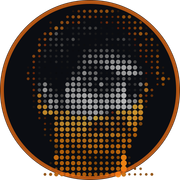
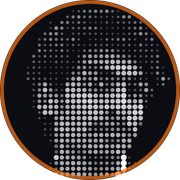
feat(hero): pure white dots only, dedicated studio portrait asset (viven-hero-studio.png), CORS headers, and cache-busting for Vercel

Changed region(s): [[0.1389, 0.0556, 0.9444, 1.0]]

diff --git a/src/components/ui/DotMatrixPortrait.tsx b/src/components/ui/DotMatrixPortrait.tsx
@@ -215,7 +215,10 @@ export function DotMatrixPortrait({
     ctx.scale(dpr, dpr);
 
     const img = new Image();
-    img.crossOrigin = "anonymous";
+    // Only set crossOrigin on remote URLs to prevent browser security blocks on local static files
+    if (src.startsWith("http://") || src.startsWith("https://")) {
+      img.crossOrigin = "anonymous";
+    }
 
     img.onload = () => {
       const offscreen = document.createElement("canvas");
@@ -241,11 +244,9 @@ export function DotMatrixPortrait({
       const imgData = offCtx.getImageData(0, 0, cw, ch);
       const data = imgData.data;
 
-      // Face center for rim and radial wave calculations
+      // Face center for horizontal and radial wave calculations
       const faceCx = cw * 0.5;
       const faceCy = ch * 0.38;
-      const faceRadiusX = cw * 0.36;
-      const faceRadiusY = ch * 0.30;
 
       const bucketMap = new Map<string, MatrixDot[]>();
 
@@ -257,44 +258,22 @@ export function DotMatrixPortrait({
           const b = data[idx + 2] / 255;
           const a = data[idx + 3] / 255;
 
-          if (a < 0.15) continue;
+          if (a < 0.12) continue;
 
-          // Ignore black background
+          // Skip pure black background
           if (r < 0.03 && g < 0.03 && b < 0.03) continue;
 
           const lum = 0.299 * r + 0.587 * g + 0.114 * b;
           if (lum < 0.035 && a < 0.75) continue;
 
-          // Normalized distance from face center for rim detection
-          const nx = (x - faceCx) / faceRadiusX;
-          const ny = (y - faceCy) / faceRadiusY;
-          const distNorm = Math.sqrt(nx * nx + ny * ny);
-
           const dotRadius = maxDotRadius * (0.35 + lum * 0.65);
 
-          // Determine color: grayscale silver-white face, golden-orange rim on outer silhouette
-          const isRim = distNorm > 0.78 || y > ch * 0.65;
-          const rimFactor = isRim
-            ? Math.min(1.0, Math.pow(Math.max(0, distNorm - 0.55) / 0.5, 1.2))
-            : 0.0;
-
-          let fillKey: string;
-          if (rimFactor > 0.05) {
-            // Golden-orange rim dots
-            const orangeR = Math.min(255, Math.round((lum * 0.6 + 0.4) * 255));
-            const orangeG = Math.min(255, Math.round((lum * 0.35 + 0.2) * rimFactor * 255 + lum * (1 - rimFactor) * 255));
-            const orangeB = Math.min(255, Math.round(lum * (1 - rimFactor * 0.8) * 100));
-            // Quantize to ~16 color bins for fast Canvas 2D path batching
-            const qR = Math.round(orangeR / 8) * 8;
-            const qG = Math.round(orangeG / 8) * 8;
-            const qB = Math.round(orangeB / 8) * 8;
-            fillKey = `rgba(${qR},${qG},${qB},${(a * 0.92).toFixed(2)})`;
-          } else {
-            // Grayscale silver-white face dots
-            const gray = Math.round(lum * 245);
-            const qGray = Math.round(gray / 8) * 8;
-            fillKey = `rgba(${qGray},${qGray},${qGray},${(a * 0.94).toFixed(2)})`;
-          }
+          // All dots are pure white only (monochrome minimalism)
+          // Opacity is mapped to luminance and alpha for rich tonal definition
+          const dotAlpha = Math.min(1.0, Math.max(0.18, (lum * 0.78 + 0.22) * a));
+          // Quantize into ~16 opacity buckets for 120 FPS batching
+          const qAlpha = (Math.round(dotAlpha * 16) / 16).toFixed(2);
+          const fillKey = `rgba(255,255,255,${qAlpha})`;
 
           const distFromCenter = Math.hypot(x - faceCx, y - faceCy);
           const angle = Math.atan2(y - faceCy, x - faceCx);

diff --git a/src/components/sections/Hero.tsx b/src/components/sections/Hero.tsx
@@ -28,11 +28,11 @@ export function Hero() {
       {/* 1. Deep black background with subtle vignette */}
       <div className={styles.bgVignette} aria-hidden="true" />
 
-      {/* 2. Dynamic Dot Matrix Portrait — pristine at rest, wave batch dispersal on scroll */}
+      {/* 2. Dynamic Dot Matrix Portrait — pristine at rest, horizontal waves & fade on scroll */}
       <div className={styles.viewLayer} aria-hidden="true">
         <div className={styles.dotMatrixWrap}>
           <DotMatrixPortrait
-            src="/images/portraits/viven-hero-clean.png"
+            src="/images/portraits/viven-hero-studio.png?v=3"
             dotSpacing={4}
             maxDotRadius={1.9}
             width={520}

diff --git a/next.config.ts b/next.config.ts
@@ -41,8 +41,12 @@ const config: NextConfig = {
         source: "/images/:path*",
         headers: [
           {
+            key: "Access-Control-Allow-Origin",
+            value: "*",
+          },
+          {
             key: "Cache-Control",
-            value: "public, max-age=31536000, immutable",
+            value: "public, max-age=86400, stale-while-revalidate=604800",
           },
         ],
       },
